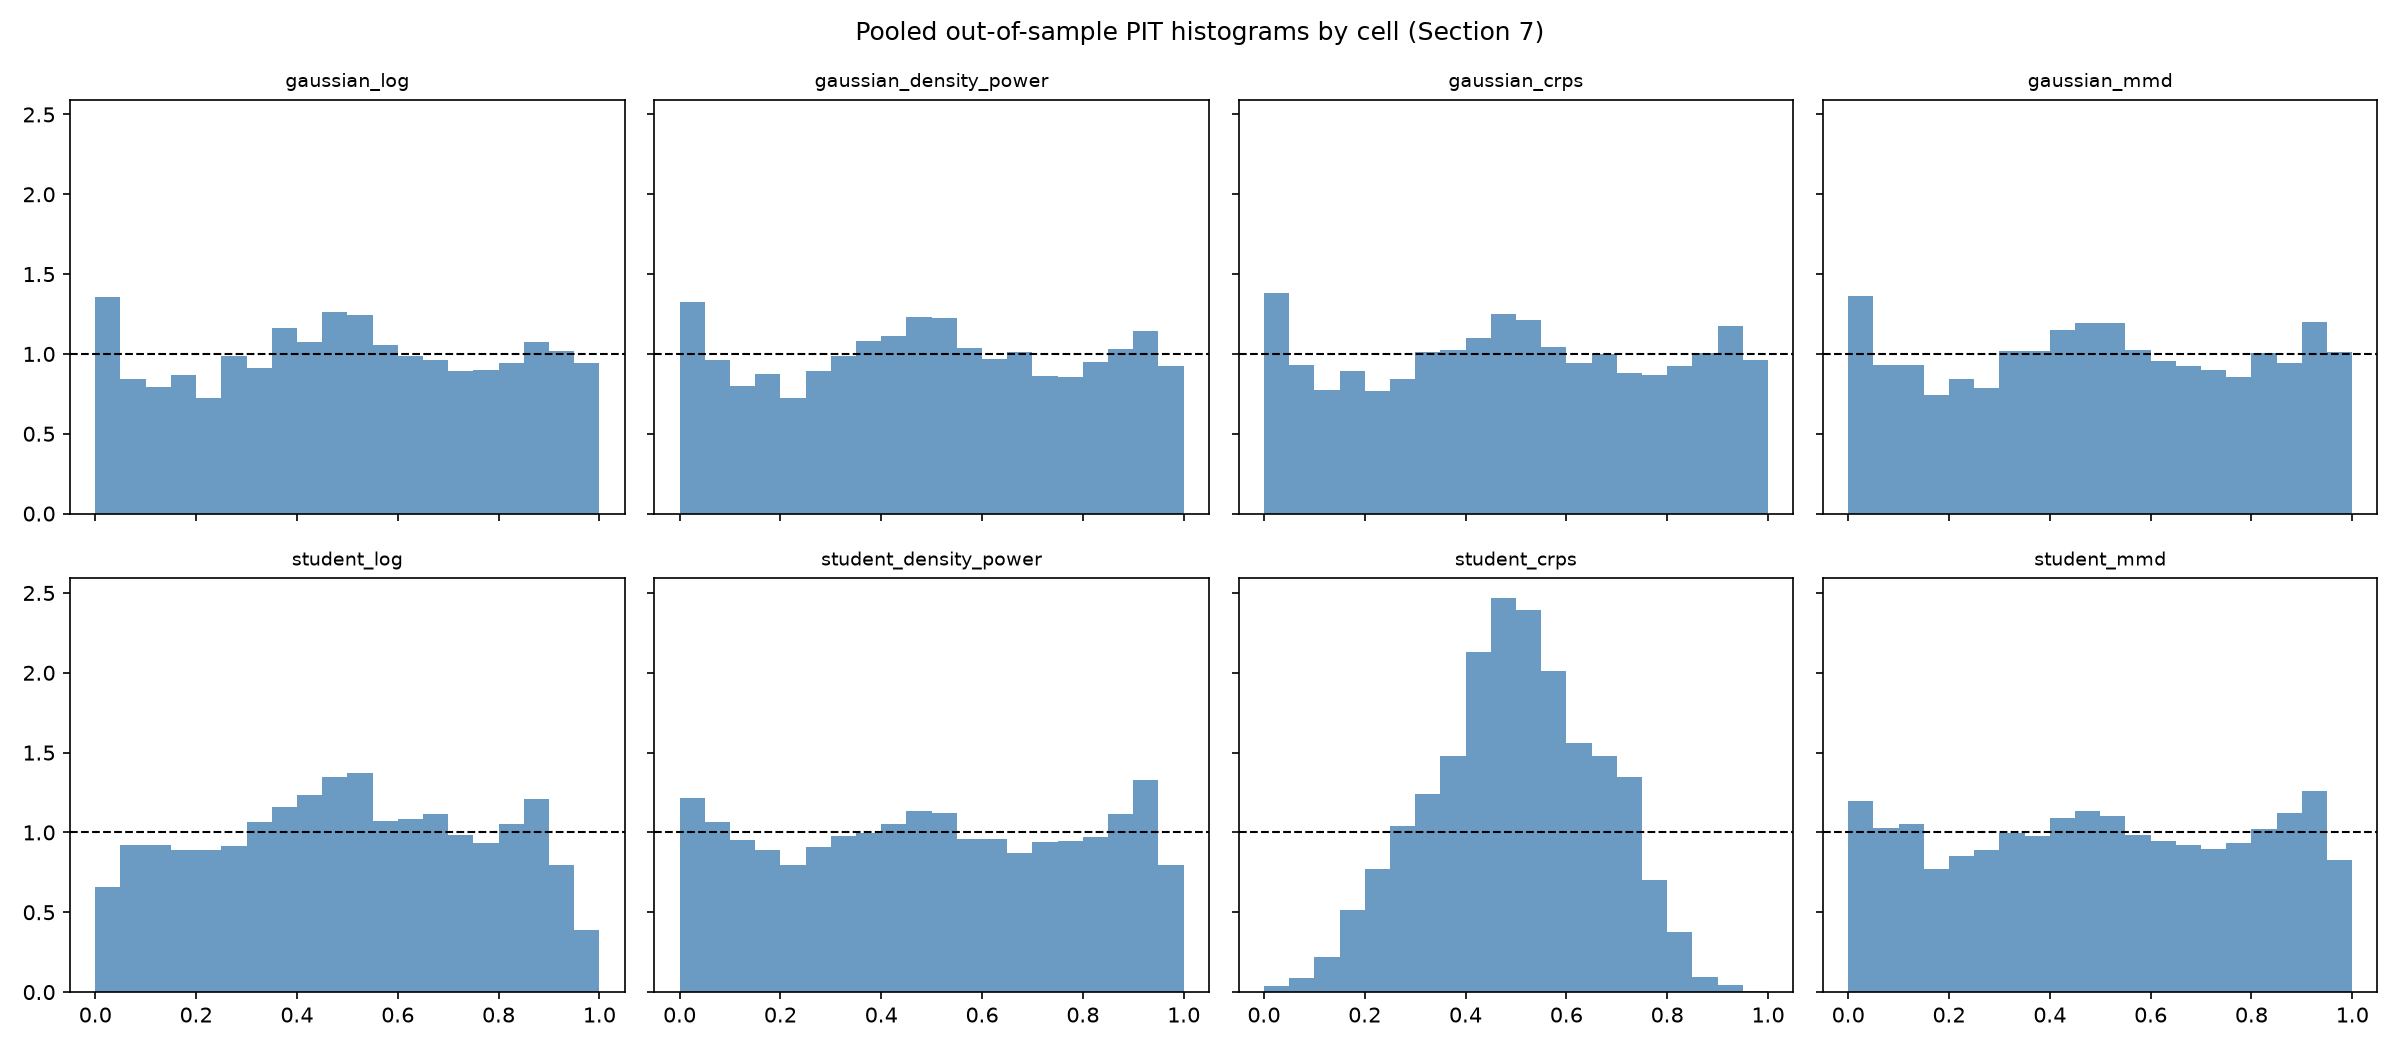
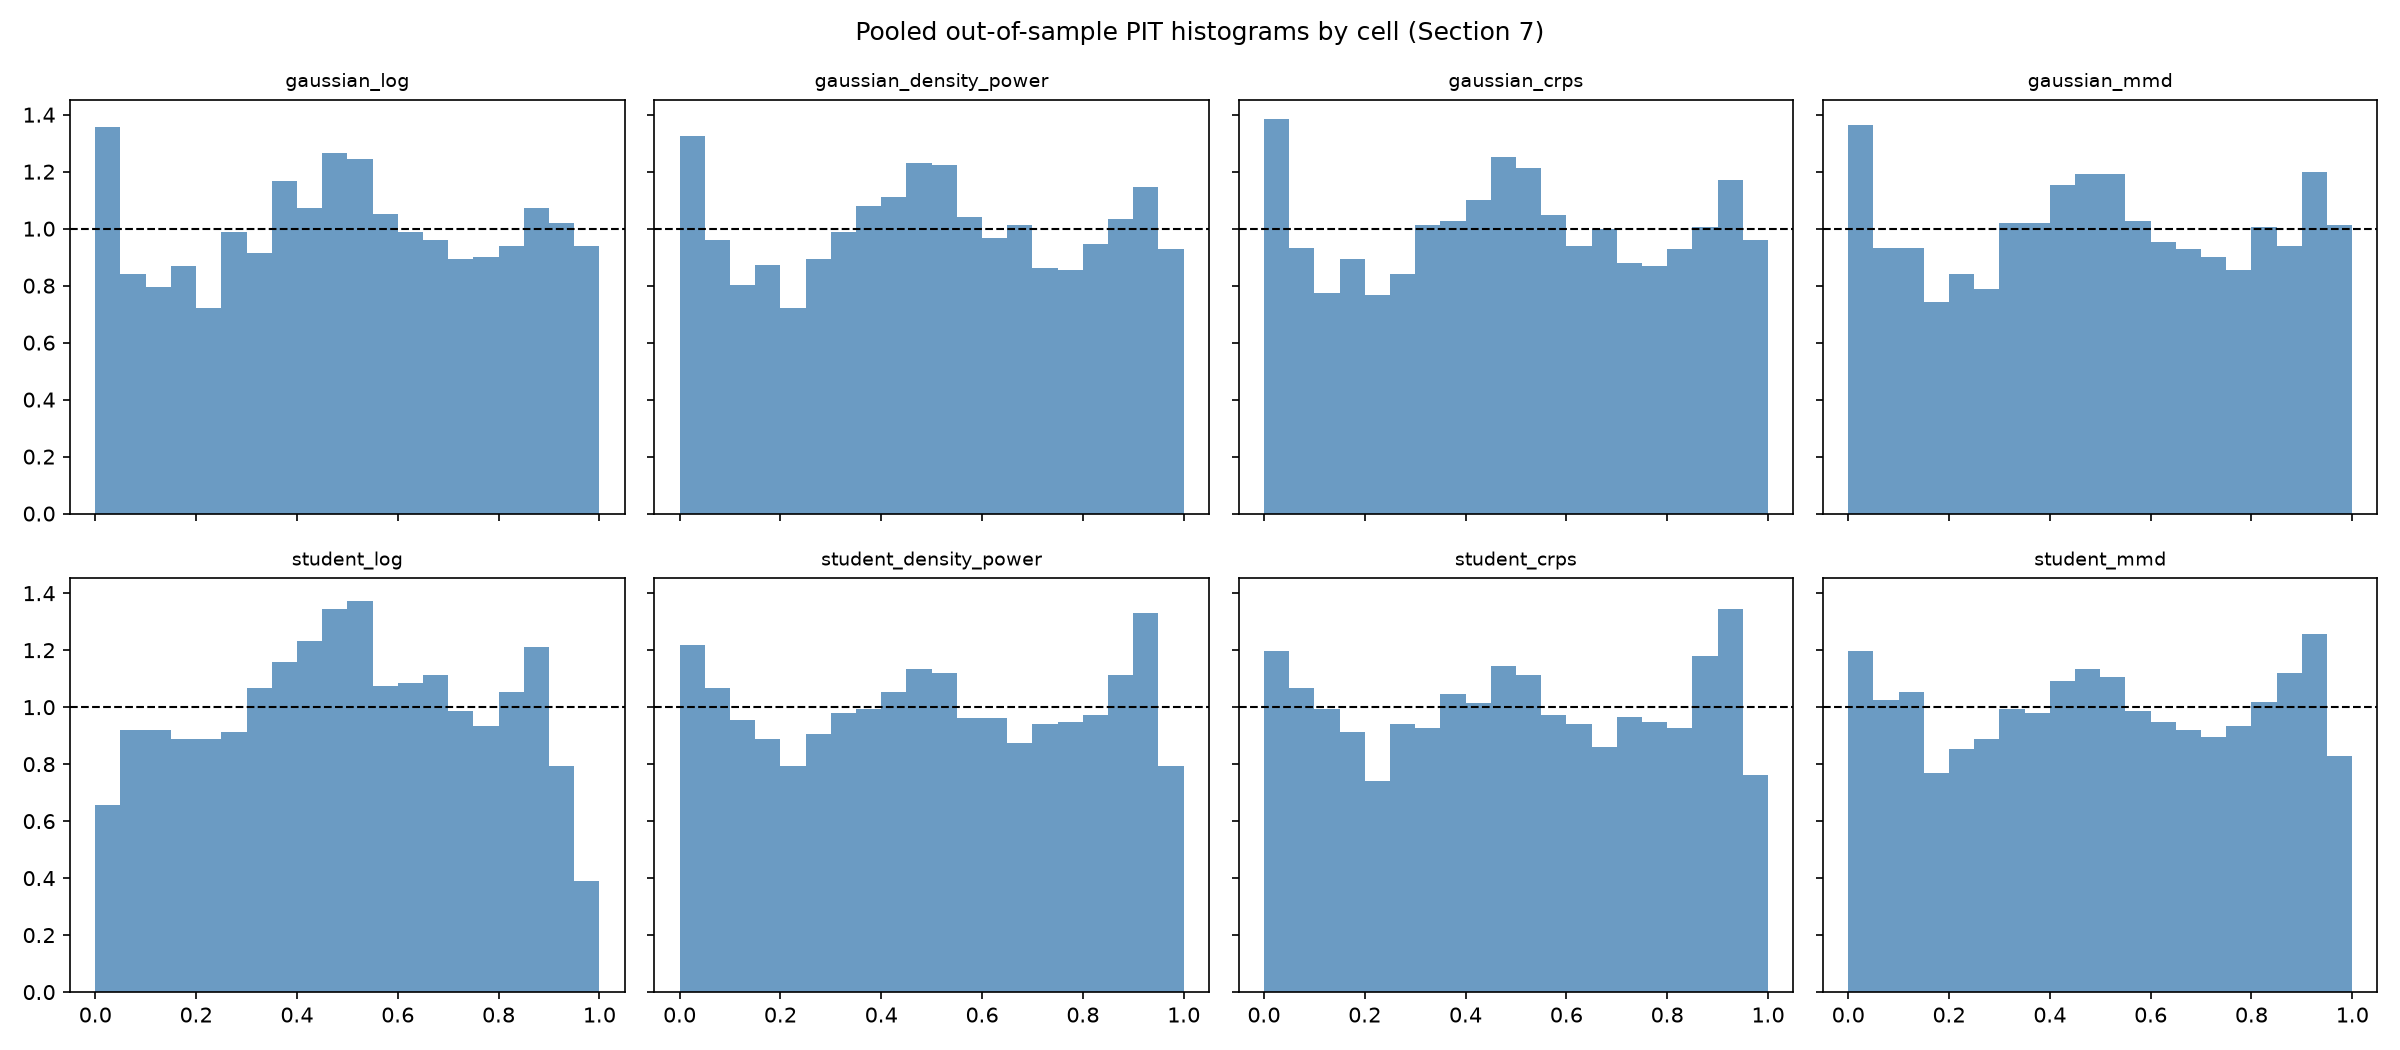
Confirm CRPS scale fix resolves exp6 Student-t6 CRPS outlier; update RESULTS.md

diff --git a/results/RESULTS.md b/results/RESULTS.md
@@ -170,7 +170,7 @@ train/test split, `L-BFGS-B` with 2 starts (paper: 8 — reduced for runtime).
 | Gaussian MMD | 1.121 | 2.32% | 6.82% |
 | Student-t6 log | 1.182 | 0.43% | 3.28% |
 | Student-t6 density-power | 1.105 | 0.76% | 6.09% |
-| Student-t6 CRPS | 2.046 | 0.00% | 0.20% |
+| Student-t6 CRPS | 1.087 | 0.76% | 5.99% |
 | Student-t6 MMD | 1.111 | 0.83% | 5.99% |
 | GARCH(1,1)-Gaussian | 1.114 | 1.95% | 6.62% |
 | GARCH(1,1)-Student | 1.111 | 1.26% | 7.12% |
@@ -178,24 +178,26 @@ train/test split, `L-BFGS-B` with 2 starts (paper: 8 — reduced for runtime).
 
 **Verdict:** not reproduced at the paper's precision, partially reproduced
 qualitatively. On the reduced 4-market universe the equal-market QLIKE range
-(1.09–2.05) brackets but is wider than the paper's reported 1.007–1.088, and
+(1.09–1.18) brackets but is wider than the paper's reported 1.007–1.088, and
 exceedance frequencies are higher than nominal for most cells instead of
 clustering near the paper's reported 1.91%–2.63% (Gaussian) / 1.46%–1.56%
-(Student-t6) at the 1% level. The Student-t6 CRPS cell is a clear outlier
-(QLIKE 2.05, near-zero exceedances), which was not present in the paper's
-report; this indicates the cell's parameters converged to a degenerate fit on
-this small universe/short sample rather than reproducing the paper's result.
-The direction the paper emphasises — switching from Gaussian to Student-t6
-moves exceedance frequencies toward the nominal level — holds for the log and
+(Student-t6) at the 1% level. An earlier run showed the Student-t6 CRPS cell
+as a degenerate outlier (QLIKE 2.05, near-zero exceedances); this was traced
+to the closed-form Student-t CRPS (Eq. G.1), which is defined in terms of the
+working scale `sqrt(v)` and was being evaluated with the working variance `v`
+in its place. Correcting this (see "Deviations from the paper") brings the
+Student-t6 CRPS cell in line with the other Student-t6 cells (QLIKE 1.087,
+1% exceedance 0.76%, both now closest to the Student-t6 density-power and MMD
+cells rather than a separate degenerate fit), confirming that the earlier
+outlier was a code defect rather than a feature of the reduced universe. The
+direction the paper emphasises — switching from Gaussian to Student-t6 moves
+exceedance frequencies toward the nominal level — holds for the log and
 density-power criteria (1% exceedance drops from ~2% to ~0.4–0.8%, under-
 shooting rather than approaching 1% as in the paper) but the magnitude and
 some individual cells do not match. The cause was not fully isolated within
 the available time; the reduced universe (4 of 12 markets) and shortened
 sample (2015–present instead of 2000/2007–2024) are the most likely drivers,
-since both reduce the training data available to the 3-parameter recursion
-and the degrees-of-freedom-fixed Student-t6 CRPS cell is known to be
-numerically delicate (Section 7 notes CRPS/MMD cells are more prone to flat
-likelihood regions on short samples).
+since both reduce the training data available to the 3-parameter recursion.
 
 ## Experiment 7 — Controlled Outlier Propagation: SPX Counterfactual
 
